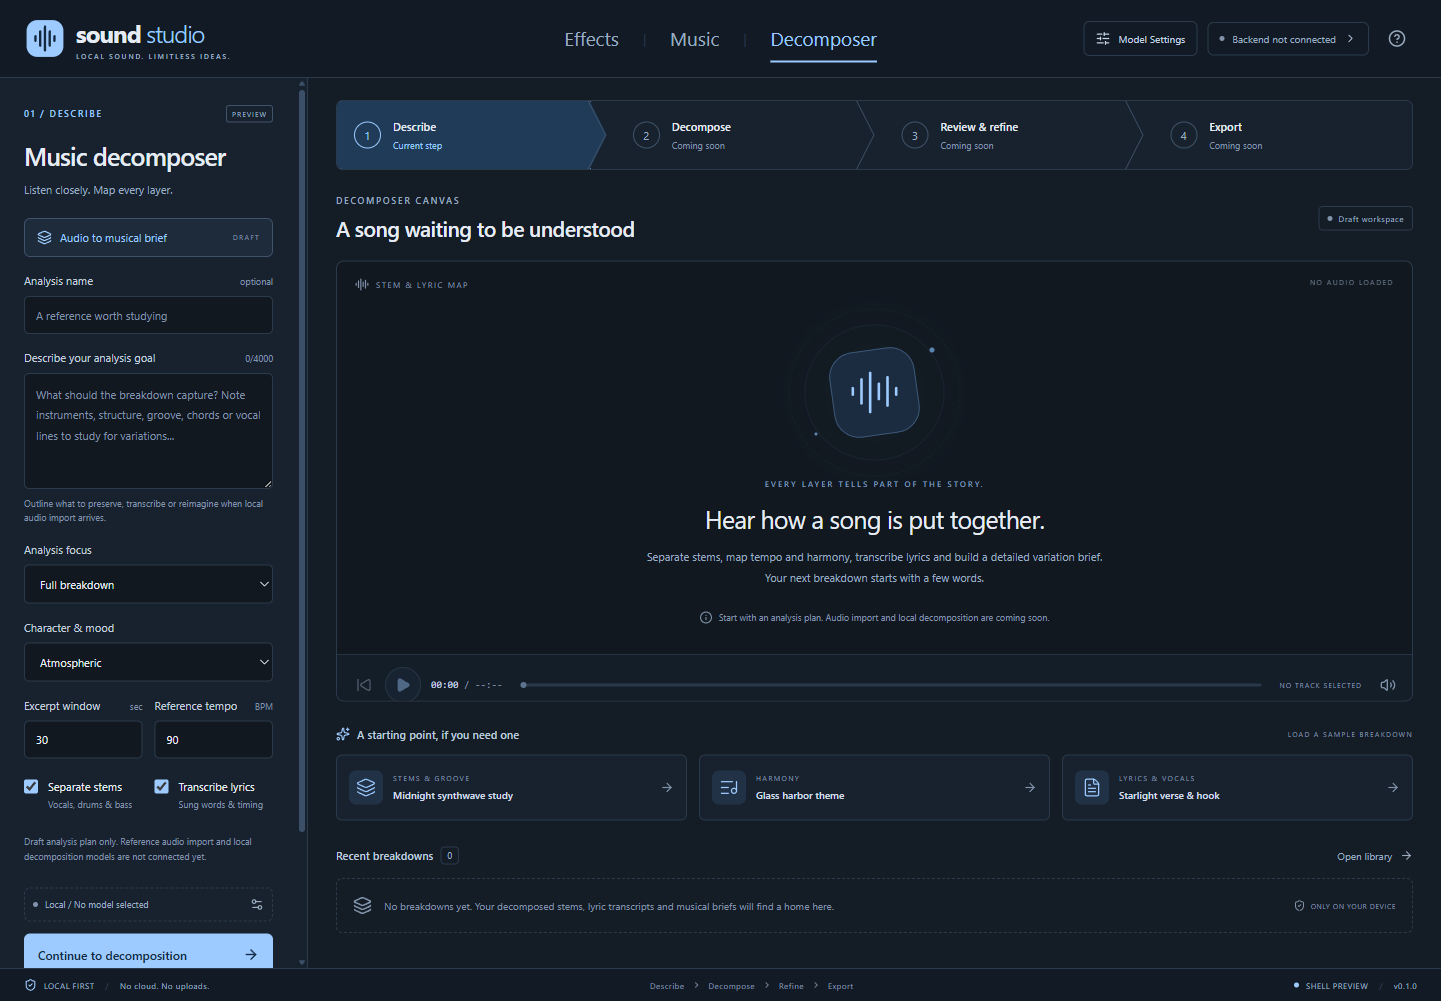
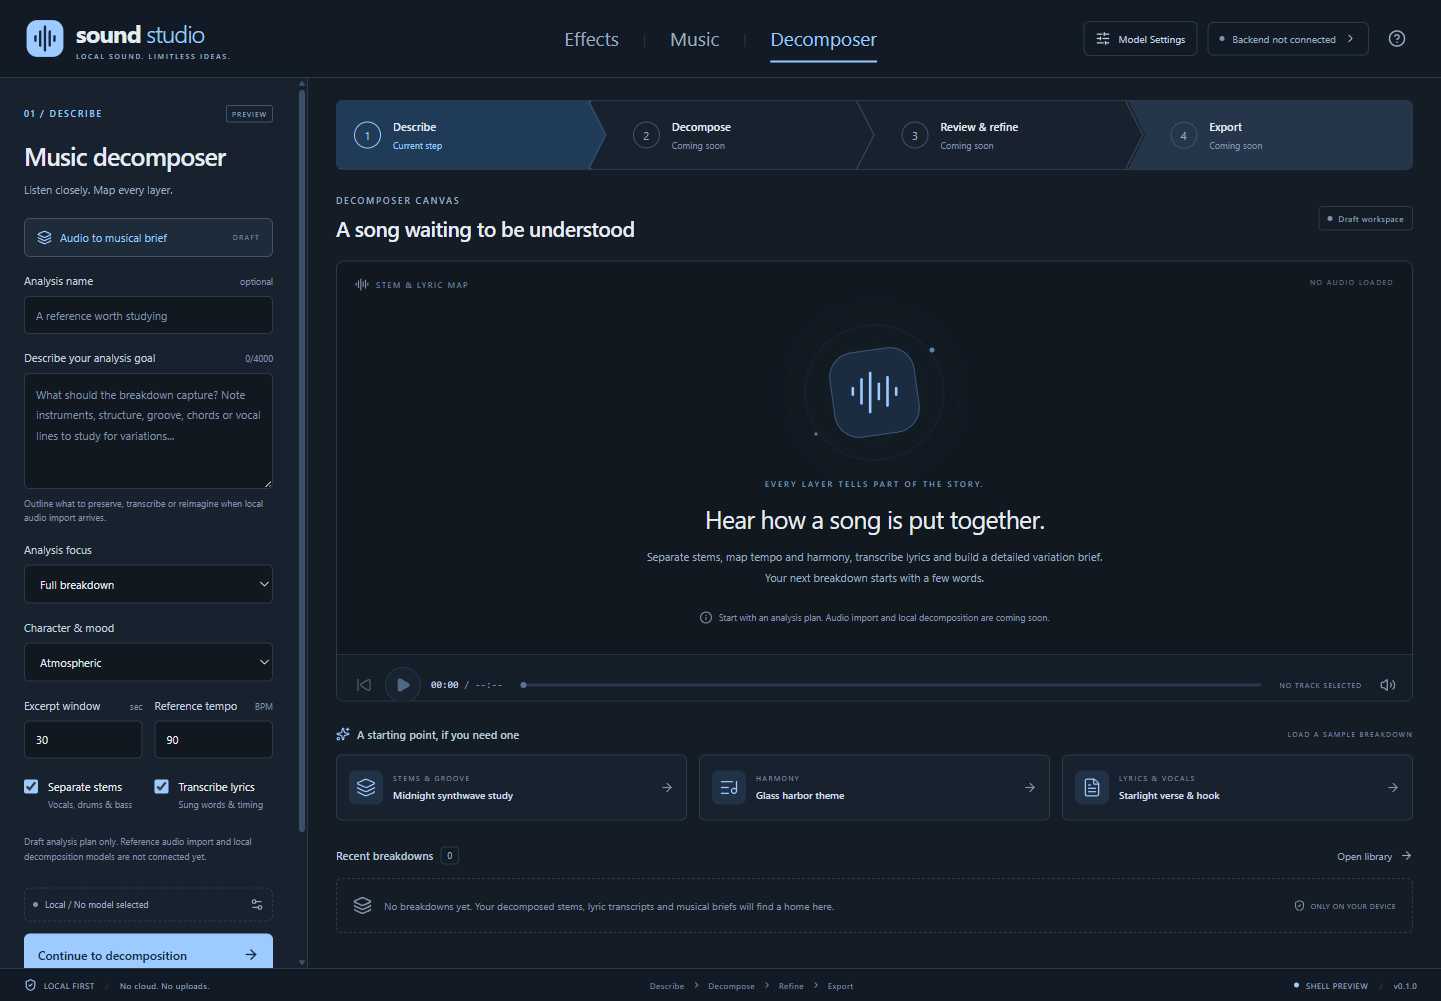
Add Decomposer analysis pipeline cards and Music variation handoff

Changed region(s): [[0.7807, 0.0929, 0.9993, 0.1858]]

diff --git a/src/renderer/App.tsx b/src/renderer/App.tsx
@@ -7,8 +7,8 @@ import {
 } from 'lucide-react'
 import { version } from '../../package.json'
 import {
-  decomposerFocuses, effectCategories, examples, musicGenres, musicMoods,
-  steps, workspaces, type Draft, type Step, type Workspace
+  buildVariationBrief, decomposerFocuses, effectCategories, examples, musicGenres,
+  musicMoods, steps, workspaces, type Draft, type Step, type Workspace
 } from '../shared/workspace'
 import { Dialog } from './Dialog'
 import { useStudioState } from './useStudioState'
@@ -38,6 +38,23 @@ export function App() {
   function selectWorkspace(next: Workspace) {
     setState(current => ({ ...current, workspace: next }))
     setNotice('')
+  }
+
+  function sendBriefToMusic() {
+    const variation = buildVariationBrief(state.drafts.decomposer)
+    setState(current => ({
+      ...current,
+      workspace: 'music',
+      drafts: {
+        ...current.drafts,
+        music: {
+          ...current.drafts.music,
+          ...variation,
+          step: 'brief'
+        }
+      }
+    }))
+    setNotice('Decomposer brief transferred to the Music workspace. No audio was generated.')
   }
 
   function navigateTabs(event: KeyboardEvent<HTMLElement>) {
@@ -147,8 +164,13 @@ export function App() {
             </> : draft.step === 'generate' ? <>
               <div className="summary-card"><span className="eyebrow">{isDecomposer ? 'YOUR ANALYSIS PLAN' : 'YOUR BRIEF'}</span><h3>{draft.title || (isDecomposer ? 'Untitled breakdown' : 'Untitled take')}</h3>
                 <p>{draft.prompt || 'No description yet. Head back to Describe to shape your idea.'}</p>
-                <div className="summary-tags"><span>{draft.category}</span><span>{draft.duration || '--'} sec</span>{isDecomposer && <span>{draft.instrumental ? 'No lyrics' : 'With lyrics'}</span>}</div>
+                <div className="summary-tags"><span>{draft.category}</span><span>{draft.duration || '--'} sec</span>{isDecomposer && <span>{draft.loop ? '4 stems' : 'Full mix'}</span>}{isDecomposer && <span>{draft.instrumental ? 'No lyrics' : 'With lyrics'}</span>}</div>
               </div>
+              {isDecomposer && <div className="pipeline-list" aria-label="Planned analysis stages">
+                <div className="pipeline-item"><Layers3 size={15} /><div><strong>Stem separation</strong><small>{draft.loop ? 'Vocals, drums, bass & accompaniment' : 'Skipped (full-mix analysis only)'}</small></div></div>
+                <div className="pipeline-item"><ListMusic size={15} /><div><strong>Timing & harmony</strong><small>Target {draft.tempo || '--'} BPM, key, chords & section grid</small></div></div>
+                <div className="pipeline-item"><FileText size={15} /><div><strong>Lyric transcription</strong><small>{draft.instrumental ? 'Disabled (instrumental track)' : 'Sung words & line timestamps'}</small></div></div>
+              </div>}
               <button className="text-button" onClick={() => selectStep('brief')}>Edit your {isDecomposer ? 'analysis plan' : 'brief'} <ArrowRight size={14} /></button>
               <div className="info-box"><Info size={17} /><p>{isDecomposer ? 'Local audio decomposition is not connected in this shell. No files are imported and no analysis models are installed.' : 'Local generation is not connected in this shell. No models are installed and no prompts are sent.'}</p></div>
             </> : <>
@@ -160,10 +182,16 @@ export function App() {
                     ? 'Inspect separated stems, timed musical descriptions, chord estimates and lyric transcripts here once decomposition is available.'
                     : 'Audition takes, compare variations and refine your sound here once generation is available.'
                   : isDecomposer
-                    ? 'Export structured musical briefs, isolated stems, MIDI or variation prompts once real song analysis is available.'
+                    ? 'Export structured musical briefs, isolated stems or MIDI once song analysis is available, or send your draft analysis plan directly to the Music workspace.'
                     : 'Output formats and export controls will appear here when real audio is available.'}</p>
               </div>
-              <div className="info-box"><Info size={17} /><p>{draft.step === 'review' ? isDecomposer ? 'There are no decomposed tracks or transcripts to review yet.' : 'There are no generated takes to review yet.' : isDecomposer ? 'No song has been analyzed. Breakdown export is not available.' : 'No audio file has been created. Export is not available.'}</p></div>
+              {isDecomposer && draft.step === 'review' && <div className="pipeline-list" aria-label="Breakdown review layers">
+                <div className="pipeline-item"><Waves size={15} /><div><strong>Isolated stems</strong><small>No separated audio stems loaded</small></div></div>
+                <div className="pipeline-item"><Music2 size={15} /><div><strong>Musical brief & chords</strong><small>Awaiting local caption & harmony pass</small></div></div>
+                <div className="pipeline-item"><FileText size={15} /><div><strong>Lyric transcript</strong><small>{draft.instrumental ? 'Marked instrumental' : 'No vocal transcript aligned yet'}</small></div></div>
+              </div>}
+              {isDecomposer && draft.step === 'export' && <button className="secondary-button full" onClick={sendBriefToMusic}><Music2 size={15} /> Send brief to Music workspace <ArrowRight size={14} /></button>}
+              <div className="info-box"><Info size={17} /><p>{draft.step === 'review' ? isDecomposer ? 'There are no decomposed tracks or transcripts to review yet.' : 'There are no generated takes to review yet.' : isDecomposer ? 'No song has been analyzed. Audio stem and MIDI export are not available.' : 'No audio file has been created. Export is not available.'}</p></div>
             </>}
 
             <div className="action-area">

diff --git a/tests/workspace.test.ts b/tests/workspace.test.ts
@@ -1,6 +1,6 @@
 import assert from 'node:assert/strict'
 import { test } from 'node:test'
-import { createInitialState, examples, parseStudioState, steps, workspaces } from '../src/shared/workspace'
+import { buildVariationBrief, createInitialState, examples, parseStudioState, steps, workspaces } from '../src/shared/workspace'
 
 test('workspaces have independent drafts and honest initial state', () => {
   const state = createInitialState()
@@ -77,4 +77,29 @@ test('all workspaces have useful sample briefs without output claims', () => {
       assert.doesNotThrow(() => parseStudioState(JSON.stringify(state)))
     }
   }
+})
+
+test('buildVariationBrief maps a Decomposer draft into a Music variation brief within schema limits', () => {
+  const state = createInitialState()
+  state.drafts.decomposer.title = 'Neon skyline'
+  state.drafts.decomposer.prompt = 'Arpeggiated bass and gated drums with airy vocal hook'
+  state.drafts.decomposer.category = 'Lyrics & vocals'
+  state.drafts.decomposer.mood = 'Uplifting'
+  state.drafts.decomposer.tempo = '118'
+  state.drafts.decomposer.duration = '45'
+  state.drafts.decomposer.loop = true
+  state.drafts.decomposer.instrumental = false
+
+  const brief = buildVariationBrief(state.drafts.decomposer)
+  assert.equal(brief.title, 'Neon skyline (variation)')
+  assert.match(brief.prompt, /Lyrics & vocals \(Uplifting, 118 BPM\)/)
+  assert.match(brief.prompt, /Preserve separated stem roles/)
+  assert.match(brief.prompt, /Include vocal phrasing and lyric structure/)
+  assert.equal(brief.tempo, '118')
+  assert.equal(brief.mood, 'Uplifting')
+  assert.equal(brief.duration, '45')
+  assert.equal(brief.instrumental, false)
+
+  state.drafts.music = { ...state.drafts.music, ...brief, step: 'brief' }
+  assert.doesNotThrow(() => parseStudioState(JSON.stringify(state)))
 })

diff --git a/src/renderer/style.css b/src/renderer/style.css
@@ -165,8 +165,14 @@ select { padding-right: 6px; }
 .summary-card h3 { margin: 12px 0 8px; overflow-wrap: anywhere; }
 .summary-card p { color: var(--text-secondary); font-size: 12px; line-height: 1.9; white-space: pre-wrap; overflow-wrap: anywhere; }
 .summary-card > svg { color: var(--accent-primary); }
-.summary-tags { display: flex; gap: 7px; margin-top: 18px; }
+.summary-tags { display: flex; flex-wrap: wrap; gap: 7px; margin-top: 18px; }
 .summary-tags span { background: var(--surface-raised); border-radius: 4px; padding: 5px 7px; font-size: 10px; color: var(--text-secondary); }
+.pipeline-list { display: flex; flex-direction: column; gap: 8px; margin-bottom: 16px; }
+.pipeline-item { display: flex; align-items: flex-start; gap: 10px; padding: 10px 12px; border: 1px solid var(--border-subtle); border-radius: 6px; background: var(--surface-app); }
+.pipeline-item > svg { color: var(--accent-primary); flex-shrink: 0; margin-top: 2px; }
+.pipeline-item strong { display: block; font-size: 11px; font-weight: 600; color: var(--text-primary); }
+.pipeline-item small { display: block; font-size: 9px; color: var(--text-subtle); margin-top: 3px; line-height: 1.5; }
+.secondary-button { padding: 11px 13px; background: var(--surface-raised); border-color: var(--border-control); color: var(--accent-primary); font-size: 11px; font-weight: 500; justify-content: space-between; }
 .info-box { display: flex; align-items: flex-start; gap: 10px; border: 1px solid var(--border-subtle); background: var(--surface-raised); border-radius: 7px; padding: 14px; margin: 20px 0; color: var(--text-secondary); }
 .info-box > svg { flex-shrink: 0; color: var(--accent-primary); margin-top: 2px; }
 .info-box p { line-height: 1.8; font-size: 11px; }

diff --git a/src/shared/workspace.ts b/src/shared/workspace.ts
@@ -69,6 +69,22 @@ export const examples: Record<Workspace, ReadonlyArray<{ title: string; detail: 
   ]
 }
 
+export function buildVariationBrief(draft: Draft): { title: string; prompt: string; tempo: string; mood: string; duration: string; instrumental: boolean } {
+  const stemMode = draft.loop ? 'Preserve separated stem roles (drums, bass, accompaniment).' : 'Focus on full-mix arrangement.'
+  const vocalMode = draft.instrumental ? 'Instrumental variation without vocals.' : 'Include vocal phrasing and lyric structure.'
+  const header = `${draft.category} (${draft.mood}, ${draft.tempo || '90'} BPM)`
+  const body = draft.prompt.trim() || 'Create a musical variation inspired by the analyzed reference track.'
+  const composedPrompt = `${header}: ${body}\n\n${stemMode} ${vocalMode}`.slice(0, 4000)
+  return {
+    title: draft.title ? `${draft.title} (variation)`.slice(0, 120) : '',
+    prompt: composedPrompt,
+    tempo: draft.tempo,
+    mood: draft.mood,
+    duration: draft.duration,
+    instrumental: draft.instrumental
+  }
+}
+
 function isRecord(value: unknown): value is Record<string, unknown> {
   return typeof value === 'object' && value !== null && !Array.isArray(value)
 }

diff --git a/GUIDE.md b/GUIDE.md
@@ -40,9 +40,9 @@ Options are draft intentions, not promises of model support. There is deliberate
 ### The workflow
 
 1. **Describe:** edit your brief or analysis plan, or load a sample.
-2. **Generate / Decompose:** inspect the brief or breakdown summary; generation and decomposition remain disabled.
+2. **Generate / Decompose:** inspect the brief or planned analysis pipeline (stem separation, timing/harmony and lyric transcription stages); generation and decomposition remain disabled.
 3. **Review & refine:** a placeholder for listening, inspecting stems/lyrics and comparing real takes.
-4. **Export:** a placeholder for output configuration; no file or breakdown is created.
+4. **Export:** a placeholder for audio/breakdown output configuration; no file is created. From Decomposer's Export step, **Send brief to Music workspace** transfers your structured variation brief, mood, duration, tempo and vocal intention into the Music workspace's Describe step without generating audio.
 
 Selecting a sample replaces the current prompt and category, returns to Describe and leaves other draft controls unchanged. It never generates or analyzes audio. Effects, Music and Decomposer keep their drafts and selected steps independently.
 
